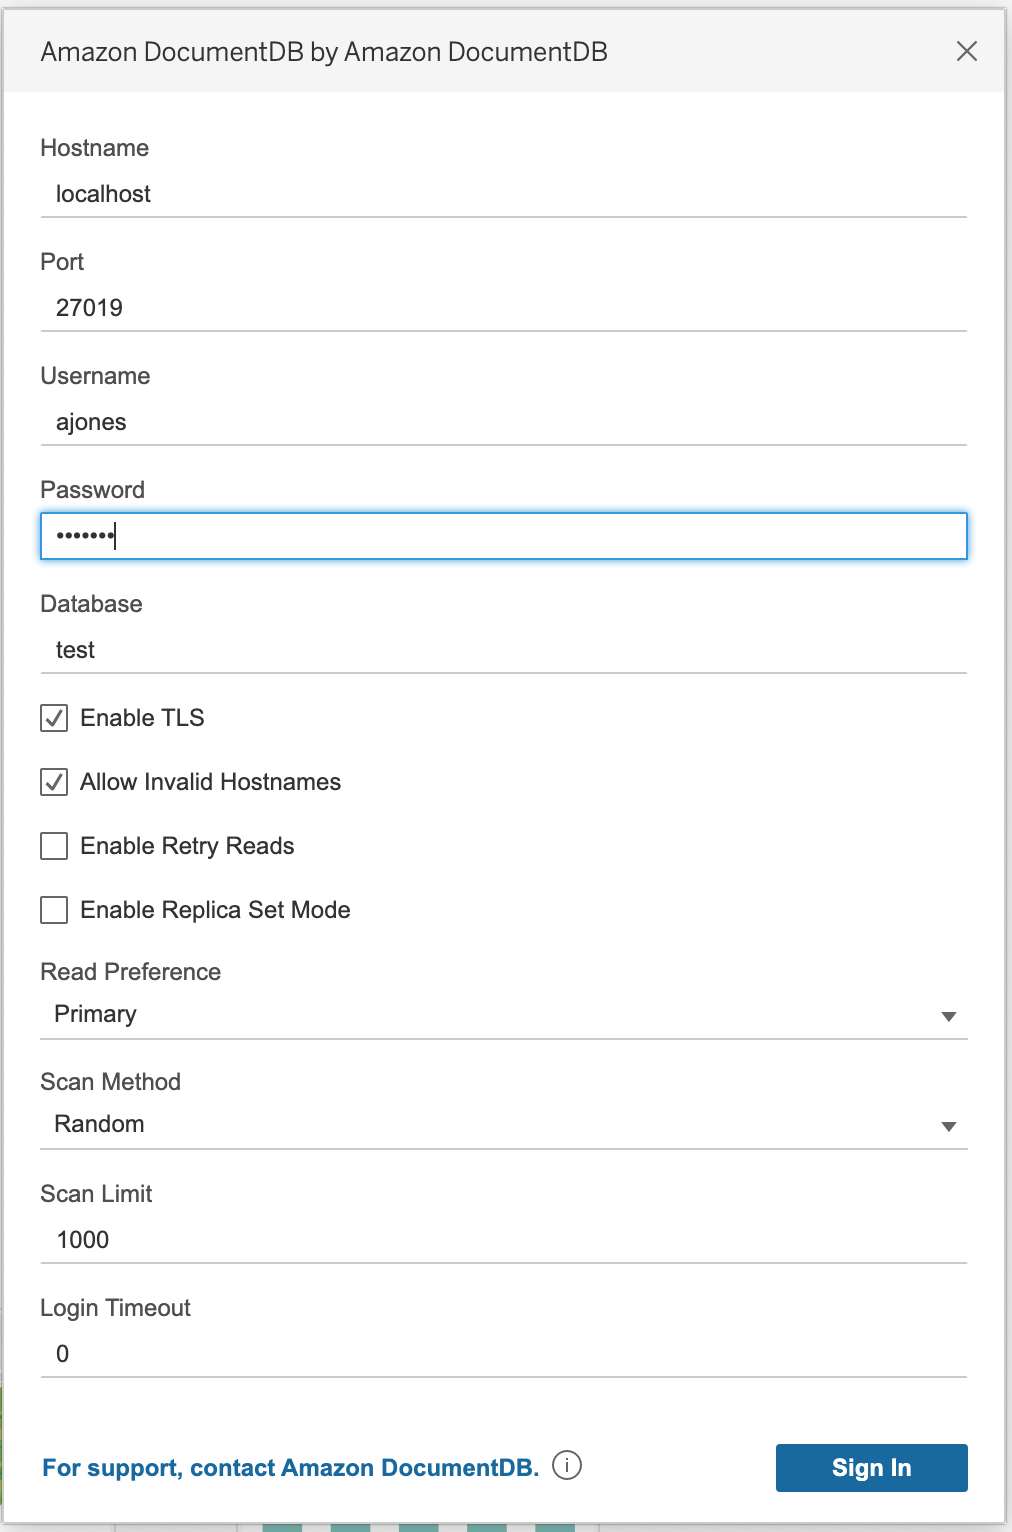
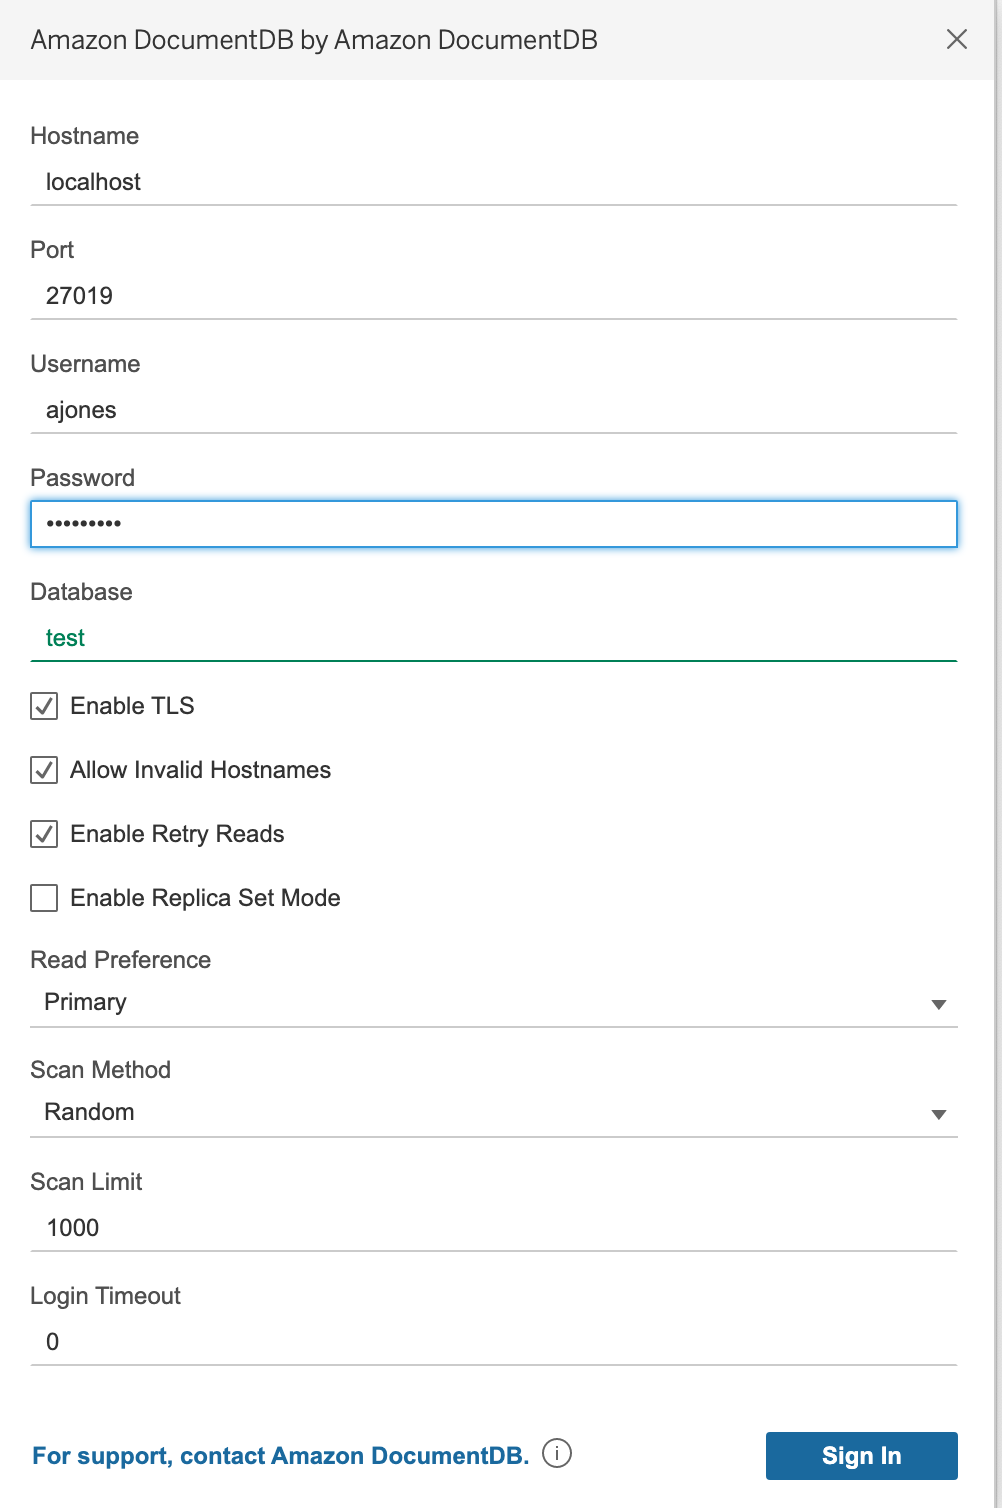
Andiem/ad 183/refactor documentation (#79)
* [AD-183] Refactor documenation - WIP

* Added feedback from Meet

* Commit Code Coverage Badge

* [AD-183] Address feedback

* Commit Code Coverage Badge

* [AD-183] Address feedback

* Commit Code Coverage Badge

* [AD-183] Address feedback

* Commit Code Coverage Badge

diff --git a/src/markdown/setup/setup.md b/src/markdown/setup/setup.md
@@ -8,11 +8,12 @@ Outlined here are the setup for [Tableau Desktop](https://www.tableau.com/produc
 ## Topics
 
 - [Getting Started](#getting-started)
-    - [Prerequisites](#prerequisites)
-    - [JRE or JDK Installation](#jre-or-jdk-installation)
-    - [Adding Amazon RDS Certificate Authority Bundle](add-amazon-ca-certs.md) 
+    - [Prerequisites](#prerequisites)  
+        - [DocumentDB Cluster](#documentdb-cluster)
+        - [JRE or JDK Installation](#jre-or-jdk-installation) 
+        - [Download the DocumentDB JDBC Driver](#download-the-documentdb-jdbc-driver)
+    - [Adding Amazon RDS Certificate Authority Bundle](#adding-amazon-rds-certificate-bundle) 
     - [Using an SSH Tunnel to Connect to Amazon DocumentDB](#using-an-ssh-tunnel-to-connect-to-amazon-documentdb)
-    - [Download the DocumentDB JDBC Driver](#download-the-documentdb-jdbc-driver)
     
 - [BI Tool Setup](#bi-tool-setup)
     - [Tableau Desktop](#tableau-desktop)
@@ -23,50 +24,102 @@ Outlined here are the setup for [Tableau Desktop](https://www.tableau.com/produc
 
 ### Prerequisites<a name='prerequisites' />
 
-If you don't already have an Amazon DocumentDB cluster running on Amazon EC2, follow the 
-instructions on how to [Connect with Amazon EC2](https://docs.aws.amazon.com/documentdb/latest/developerguide/connect-ec2.html).
+#### DocumentDB Cluster<a name='documentdb-cluster' />
 
-### JRE or JDK Installation<a name='jre-or-jdk-installation' />
+If you don't already have an Amazon DocumentDB cluster, there are a number of ways to 
+[get started](https://docs.aws.amazon.com/documentdb/latest/developerguide/get-started-guide.html). 
+
+Note that DocumentDB is a Virtual Private Cloud (VPC) only service. 
+If you will be connecting from a local machine outside the cluster's VPC, you will need to 
+create an SSH connection to an Amazon EC2 instance. In this case, launch your cluster using the instructions in 
+[Connect with EC2](https://docs.aws.amazon.com/documentdb/latest/developerguide/connect-ec2.html). 
+See [Using an SSH Tunnel to Connect to Amazon DocumentDB](#using-an-ssh-tunnel-to-connect-to-amazon-documentdb) 
+for more information on ssh tunneling and when you might need it.
+
+#### JRE or JDK Installation<a name='jre-or-jdk-installation' />
 
 Depending on your BI application, you may need to ensure a 64-bit JRE or JDK installation version 8 
 or later is installed on your computer. You can download the Java SE Runtime Environment 8 
-[here](https://www.oracle.com/ca-en/java/technologies/javase-jre8-downloads.html).
+[here](https://www.oracle.com/ca-en/java/technologies/javase-jre8-downloads.html).  
+
+#### Download the DocumentDB JDBC Driver <a name='download-the-documentdb-jdbc-driver' />
+
+<!-- >TODO: Get link for DocumentDB JDBC driver. -->
+Download the DocumentDB JDBC driver here. The driver is packaged as a single JAR file
+(e.g., `documentdb-jdbc-1.0-SNAPSHOT-all.jar`).
+
+### Adding Amazon RDS Certificate Authority Bundle <a name='adding-amazon-rds-certificate-bundle' />
+
+If you are connecting to a TLS-enabled cluster, you will need to [install the Amazon RDS Certificate Authority 
+bundle](add-amazon-ca-certs.md) on your machine.
+
+To determine whether your cluster is TLS-enabled, you can 
+[check the value of your cluster's `tls` parameter](https://docs.aws.amazon.com/documentdb/latest/developerguide/connect_programmatically.html#connect_programmatically-determine_tls_value).
 
 ### Using an SSH Tunnel to Connect to Amazon DocumentDB<a name='using-an-ssh-tunnel-to-connect-to-amazon-documentdb' />
 
-If you are connecting to your Amazon DocumentDB cluster from outside its Amazon Virtual Private Cloud
-(Amazon VPC), then you'll need to create an SSH tunnel to the Amazon DocumentDB cluster. Please
-refer to [Using an SSH Tunnel to Connect to Amazon DocumentDB](ssh-tunnel.md).
+Amazon DocumentDB (with MongoDB compatibility) clusters are deployed within an Amazon Virtual Private Cloud (Amazon VPC). 
+They can be accessed directly by Amazon EC2 instances or other AWS services that are deployed in the same Amazon VPC. 
+Additionally, Amazon DocumentDB can be accessed by EC2 instances 
+or other AWS services in different VPCs in the same AWS Region or other Regions via VPC peering.
 
-### Download the DocumentDB JDBC Driver <a name='download-the-documentdb-jdbc-driver' />
+However, suppose that your use case requires that you (or your application) access your Amazon DocumentDB resources 
+from outside the cluster's VPC. This will be the case for most users not running their application 
+on a VM in the same VPC as the DocumentDB cluster. When connecting from outside the VPC, 
+you can use SSH tunneling (also known as  _port forwarding_) to access your Amazon DocumentDB resources.
 
-<!-- >TODO: Get link for DocumentDB JDBC driver. -->
-Download the DocumentDB JDBC driver here. The driver is packaged as a single JAR file 
-(e.g., `documentdb-jdbc-1.0-SNAPSHOT-all.jar`).
+To create an SSH tunnel, you need an Amazon EC2 instance running in the same Amazon VPC as your Amazon DocumentDB cluster. You can either use an existing EC2 instance in the same VPC as your cluster or create one.
+
+You can set up an SSH tunnel to the Amazon DocumentDB cluster `sample-cluster.node.us-east-1.docdb.amazonaws.com` by running the following command on your local computer. The `-L` flag is used for forwarding a local port.
+```
+ssh -i "ec2Access.pem" -L 27017:sample-cluster.node.us-east-1.docdb.amazonaws.com:27017 ubuntu@ec2-34-229-221-164.compute-1.amazonaws.com -N 
+```
+This is a prerequisite for connecting to any BI tool running on a client outside your VPC. Once you run the step above you can move on to the next steps for the BI tool of your choice.
+
+For further information on SSH tunneling , please refer to the documentation on
+[Connecting from Outside an Amazon VPC.](https://docs.aws.amazon.com/documentdb/latest/developerguide/connect-from-outside-a-vpc.html)
 
 ## BI Tool Setup<a name='bi-tool-setup' />
 
 ### Tableau Desktop<a name='tableau-desktop' />
 
-[Download](#download-the-documentdb-jdbc-driver) the DocumentDB JDBC driver JAR file and copy it to one of these
-directories according to your operating system:
+#### Adding the Amazon DocumentDB JDBC Driver
 
-- **_Windows_**: `C:\Program Files\Tableau\Drivers`
-- **_Mac_**: `~/Library/Tableau/Drivers`
-- **_Linux_**: `/opt/tableau/tableau_driver/jdbc`
+1. [Download](#download-the-documentdb-jdbc-driver) the DocumentDB JDBC driver JAR file and copy it to one of these
+   directories according to your operating system:
 
-Download the DocumentDB Tableau connector (TACO file) and copy it to your `My Tableau Repository/Connectors`
-directory. For more information, consult the [Tableau documentation](https://tableau.github.io/connector-plugin-sdk/docs/run-taco). 
+    - **_Windows_**: `C:\Program Files\Tableau\Drivers`
+    - **_Mac_**: `~/Library/Tableau/Drivers`
+    - **_Linux_**: `/opt/tableau/tableau_driver/jdbc`
+
+1. [Download]() the DocumentDB Tableau connector (a TACO file) and copy it to your `My Tableau Repository/Connectors`
+   directory. 
+   For more information, consult the [Tableau documentation](https://tableau.github.io/connector-plugin-sdk/docs/run-taco). 
 
 #### Connecting to Amazon DocumentDB Using Tableau
 
-1. Launch the Tableau Desktop application and navigate to 
-   **Tableau > Connect > Amazon DocumentDB by Amazon DocumentDB**.
+1. If connecting from outside the DocumentDB cluster's VPC, ensure you have [setup an SSH tunnel](#using-an-ssh-tunnel-to-connect-to-amazon-documentdb).
+1. If connecting to a TLS-enabled cluster, ensure you have [installed the Amazon RDS CA bundle](add-amazon-ca-certs.md).
+1. Launch the Tableau Desktop application.
+    - If using a **signed** Tableau Connector, launch Tableau like a typical application on your machine.
+    - If using an **unsigned** Tableau connector, Tableau must be launched from the command line with the flag
+      `-DDisableVerifyConnectorPluginSignature=true`. 
+      
+      Assuming default installation of Tableau Desktop:
+        - On **Windows**, use `tableau.exe -DDisableVerifyConnectorPluginSignature=true`. 
+        - On **Mac**, use `/Applications/Tableau\ Desktop\ [version].app/Contents/MacOS/Tableau -DDisableVerifyConnectorPluginSignature=true`.
+        - For more information, consult the [Tableau documentation](https://tableau.github.io/connector-plugin-sdk/docs/run-taco).
+      
+1. Navigate to **Connect > To A Server > More**. **Amazon DocumentDB by Amazon DocumentDB** should be listed 
+   under **Installed Connectors**. Select it.
+   
+![Select a Connector](tableau-connector.png)
+   
 1. Enter the parameters. **Hostname**, **Port**, **Database**, **Username** and **Password** 
    are required while the others are optional. Descriptions for each parameter can be found in 
    the [JDBC connection string](connection-string.md) documentation. As an example, the image below 
-   is equivalent to the connection string: 
-   `jdbc:documentdb://localhost:27019/test?tls=true&tlsAllowInvalidHostnames=true&scanMethod=random&scanLimit=1000&loginTimeoutSec=0&readPreference=primary&retryReads=false` 
+   is equivalent to the connection string:
+   `jdbc:documentdb://localhost:27019/test?tls=true&tlsAllowInvalidHostnames=true&scanMethod=random&scanLimit=1000&loginTimeoutSec=0&readPreference=primary&retryReads=true` 
    with username and password passed separately in a properties file.
 1. Click the **Sign In** button.
 
@@ -92,6 +145,8 @@ Click the plus icon (or menu path **Driver > Create Driver**)
 
 #### Connecting to Amazon DocumentDB Using DbVisualizer
 
+1. If connecting from outside the DocumentDB cluster's VPC, ensure you have [setup an SSH tunnel](#using-an-ssh-tunnel-to-connect-to-amazon-documentdb).
+1. If connecting to a TLS-enabled cluster, ensure you have [installed the Amazon RDS CA bundle](add-amazon-ca-certs.md).
 1. Navigate the menu path **Database > Create Database Connection**.
 1. For the **Name** field, enter a descriptive name for the connection.
 1. For the **Driver (JDBC)** field, choose the **DocumentDB** driver you created earlier.
@@ -107,6 +162,8 @@ Click the plus icon (or menu path **Driver > Create Driver**)
 
 #### Adding the Amazon DocumentDB JDBC Driver
 
+1. If connecting from outside the DocumentDB cluster's VPC, ensure you have [setup an SSH tunnel](#using-an-ssh-tunnel-to-connect-to-amazon-documentdb).
+1. If connecting to a TLS-enabled cluster, ensure you have [installed the Amazon RDS CA bundle](add-amazon-ca-certs.md).
 1. Launch the SQuirrel SQL Client application.
 1. Ensure the **Drivers** tab is selected.
 1. Navigate to menu path ***Drivers > New Driver ...***
@@ -123,6 +180,8 @@ Click the plus icon (or menu path **Driver > Create Driver**)
 
 #### Connecting to Amazon DocumentDB Using SQuirreL SQL Client
 
+1. If connecting from outside the DocumentDB cluster's VPC, ensure you have [setup an SSH tunnel](#using-an-ssh-tunnel-to-connect-to-amazon-documentdb).
+1. If connecting to a TLS-enabled cluster, ensure you have [installed the Amazon RDS CA bundle](add-amazon-ca-certs.md).
 1. Launch the SQuirrel SQL Client application.
 1. Ensure the **Aliases** table is selected.
 1. Navigate the menu path **Aliases > New Alias...**.

diff --git a/src/markdown/setup/add-amazon-ca-certs.md b/src/markdown/setup/add-amazon-ca-certs.md
@@ -37,7 +37,9 @@ To install a custom certificate on a Mac, follow these steps to import the certi
 "System" keychain.
 
 1. [Download the root CA certificate](https://s3.amazonaws.com/rds-downloads/rds-ca-2019-root.pem) 
-   and any required [intermediate certificates](https://docs.aws.amazon.com/AmazonRDS/latest/UserGuide/UsingWithRDS.SSL.html).
+   and one of the [intermediate certificates](https://docs.aws.amazon.com/AmazonRDS/latest/UserGuide/UsingWithRDS.SSL.html). 
+   The intermediate certificate to download is dependent on the AWS region your cluster is deployed in. 
+   For example, for a cluster in **US East(N. Virginia)**, the certificate to download would be `rds-ca-2019-us-east-1.pem`.
 1. [Open](https://support.apple.com/guide/keychain-access/add-certificates-to-a-keychain-kyca2431/mac)
    the **Keychain Access** app on your Mac.
 1. Select the **System** keychain. 
